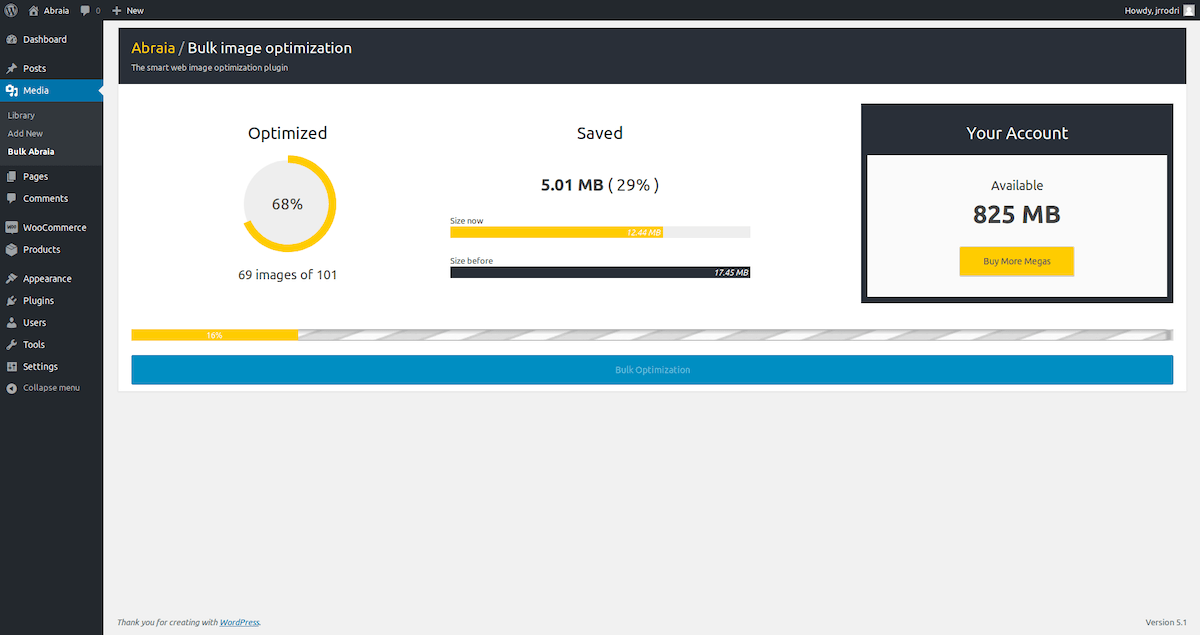
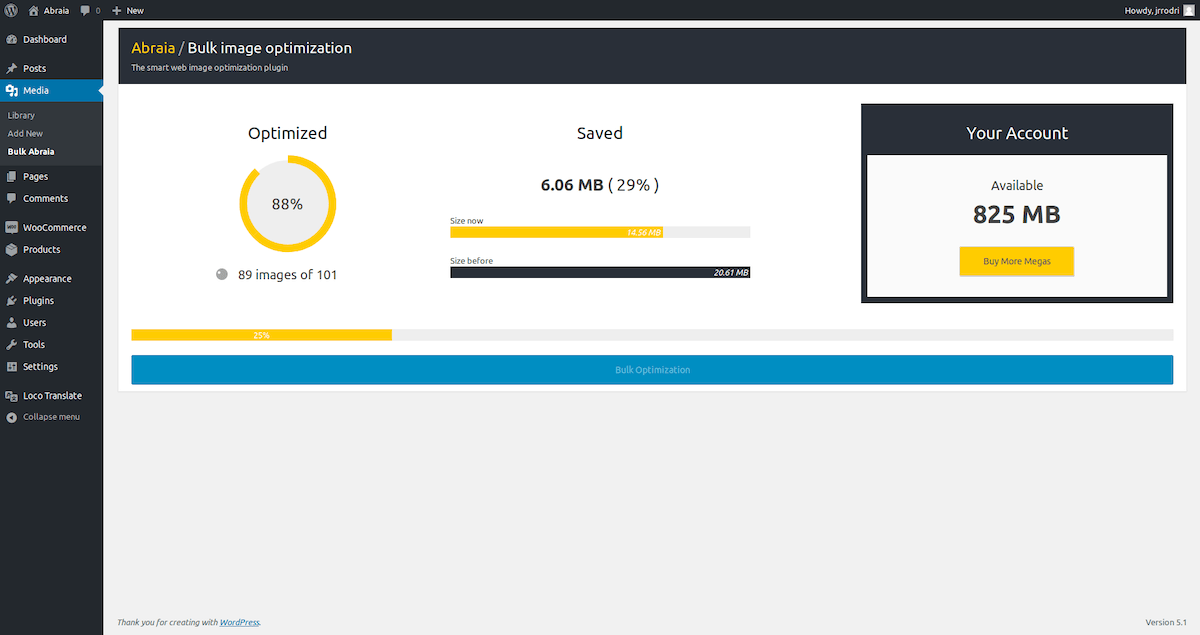
Update bulk progress

diff --git a/admin/bulk.php b/admin/bulk.php
@@ -53,7 +53,11 @@ function abraia_media_page() {
                 </span>
                 <div class="progress-value"><span id="percent"><?php echo round(100 * $percent) ?></span>%</div>
               </div>
-              <p style="text-align:center;font-size:1.5em"><span id="sum"><?php echo $sum ?></span> <?php esc_html_e('images of', 'abraia') ?> <?php echo $total ?></p>
+              <p style="text-align:center;font-size:1.5em">
+			    <span id="progress-spinner" class="spinner" style="float:unset;vertical-align:top"></span>
+				<span id="sum"><?php echo $sum ?></span> <?php esc_html_e('images of', 'abraia') ?> <?php echo $total ?>
+                <span class="spinner" style="float:unset;vertical-align:top"></span>
+              </p>
             </div>
             <div class="abraia-column" style="margin: 0 10% 0 0;">
               <h2><?php esc_html_e('Saved', 'abraia') ?></h2>
@@ -87,7 +91,7 @@ function abraia_media_page() {
           </div>
         </div>
         <div class="abraia-footer">
-          <div id="progress-background" class="abraia-progress">
+          <div class="abraia-progress">
             <div id="progress-bar" class="abraia-progress-bar" style="width:0%">&nbsp;</div>
           </div>
           <button id="bulk" class="button button-primary button-hero" type="button" <?php echo ($sum == $total) ? 'disabled' : '' ?>><?php esc_html_e('Bulk Optimization', 'abraia'); ?></button>
@@ -137,7 +141,7 @@ function abraia_media_page() {
           var bulkButton = $('#bulk');
           bulkButton.click(function() {
             bulkButton.prop('disabled', true);
-            $('#progress-background').css({'background': 'url(/wp-includes/js/thickbox/loadingAnimation.gif)', 'background-repeat': 'no-repeat', 'background-size': '100% 100%'});
+            $('#progress-spinner').css({'visibility': 'visible'});
             images.reduce(function(pp, id, k) {
               return pp.then(function() { return compressImage(id, k) });
             }, $.when());
